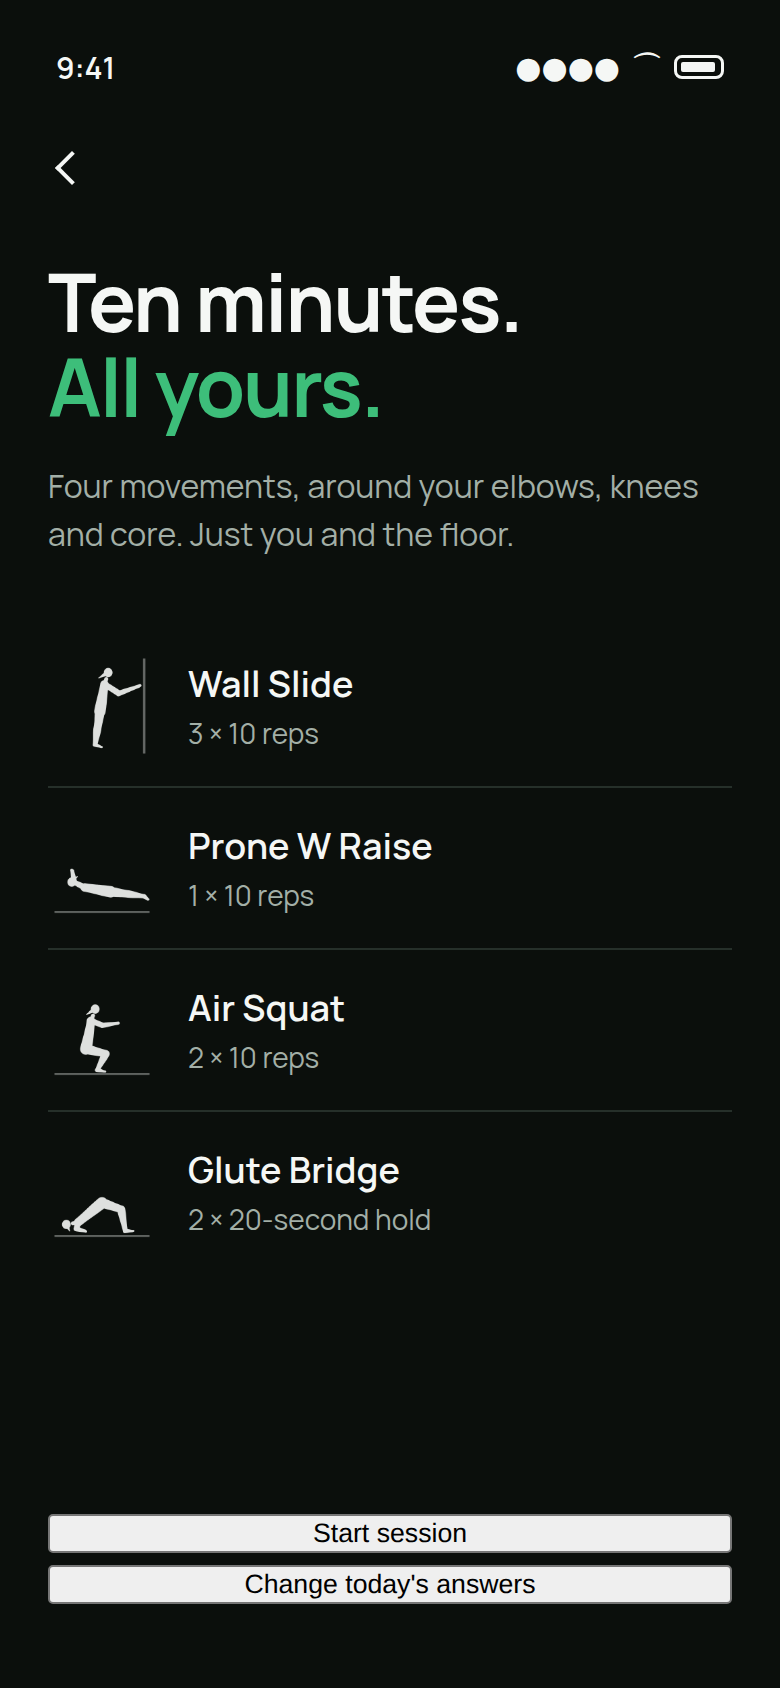
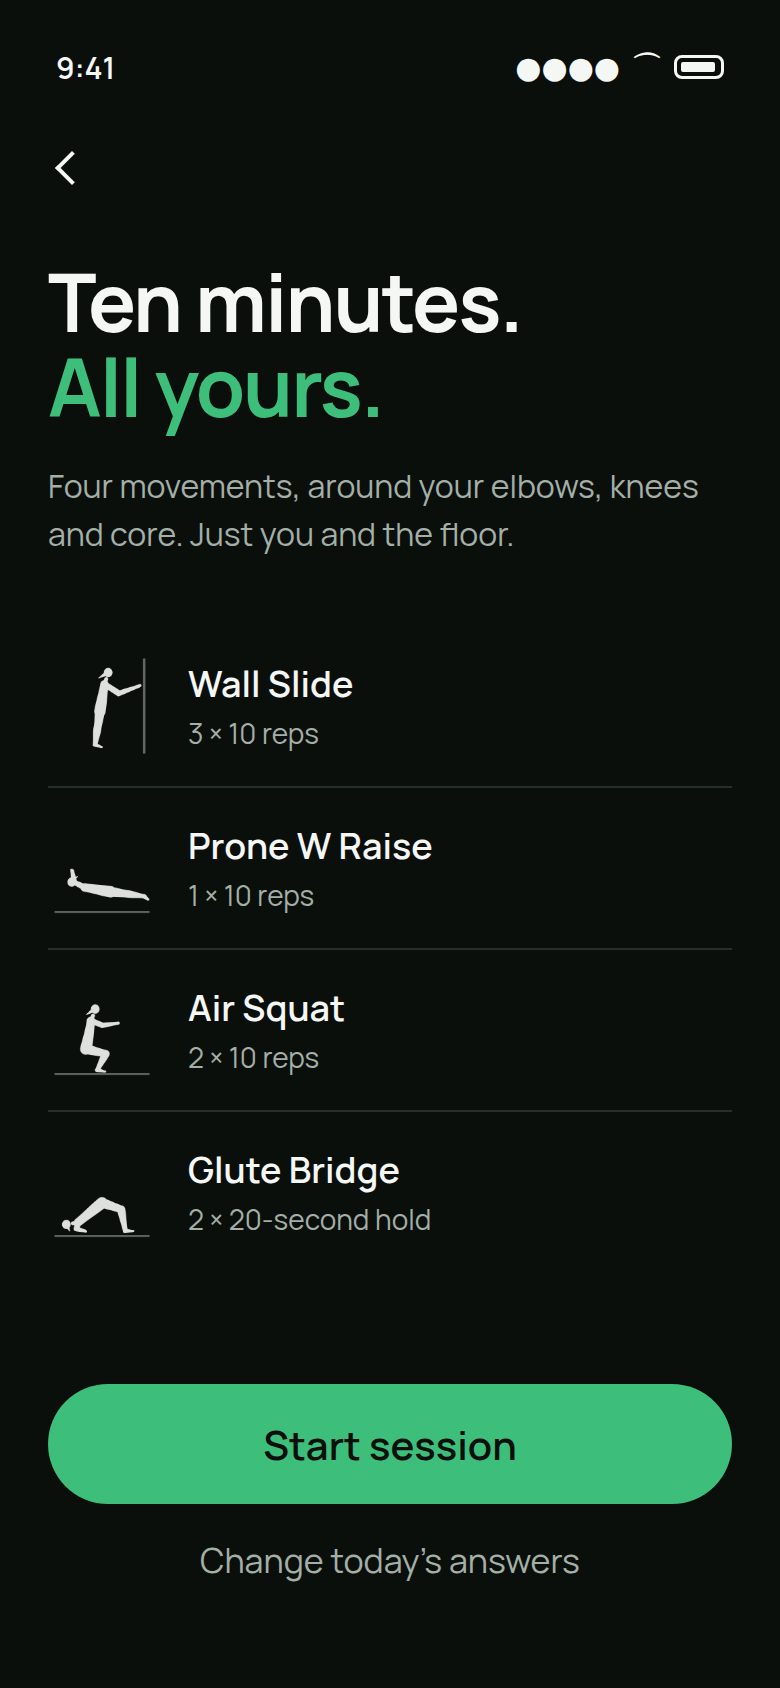
Preview button options: real design-system buttons, the bar, the round start, the compact pill

Changed region(s): [[0.0615, 0.8009, 0.9538, 0.955]]

diff --git a/docs/design/mockups/preview-c2.html b/docs/design/mockups/preview-c2.html
@@ -1,4 +1,4 @@
-<!doctype html><html><head><meta charset="utf-8"><title>preview-b3</title><link rel="stylesheet" href="tokens.css"><link rel="stylesheet" href="_rows.css">
+<!doctype html><html><head><meta charset="utf-8"><title>C2</title><link rel="stylesheet" href="tokens.css"><link rel="stylesheet" href="_rows.css">
 <style>
 /* B — ONE PROMISE, THEN THE PLAN. A short empowering headline instead of
    "Your session is ready", the three facts folded into one quiet line,
@@ -15,11 +15,14 @@
 .blk .n { font-size: 18px; font-weight: 600; }
 .blk .p { color: var(--ink-soft); font-size: 14px; margin-top: 3px; }
 .bottom { padding-bottom: 8px; gap: 6px; }
-/* B3 — QUIET GREEN. The accent at low emphasis: the green sits as a
-   tinted surface with green text, so the loudest thing on the screen is
-   still her session, not the button. */
-.bottom .primary { background: var(--accent-soft); color: var(--accent); border: 1px solid var(--accent); border-radius: 16px; min-height: 58px; font-size: 19px; font-weight: 700; letter-spacing: -.2px; }
-.bottom .quiet { min-height: 48px; font-size: 16px; color: var(--ink-soft); }
+/* C2 — PRESS TO BEGIN. One round button, the shape of starting
+   something. The word sits under it and the secondary is a quiet line
+   below that; nothing is full width, so the screen breathes. */
+.bottom { padding-bottom: 4px; gap: 0; align-items: center; }
+.startwrap { display: flex; flex-direction: column; align-items: center; gap: 14px; }
+.start { width: 108px; height: 108px; border-radius: 999px; background: var(--accent); color: var(--on-accent); display: flex; align-items: center; justify-content: center; font-size: 36px; }
+.startlabel { font-size: 19px; font-weight: 600; letter-spacing: -.2px; }
+.bottom .btn-quiet { min-height: 48px; margin-top: 12px; }
 </style></head><body><div class="phone">
 <div class="statusbar"><span>9:41</span><span class="right"><span>●●●●</span><span>⌒</span><span class="batt"></span></span></div>
 <div class="screen">
@@ -36,7 +39,7 @@
   </div>
   <div style="flex:1"></div>
   <div class="bottom">
-    <button class="primary">Start session</button>
-    <button class="quiet">Change today's answers</button>
+    <div class="startwrap"><div class="start">&#9654;</div><div class="startlabel">Start session</div></div>
+    <div class="btn btn-quiet">Change today’s answers</div>
   </div>
 </div></div></body></html>

diff --git a/docs/design/mockups/preview-c3.html b/docs/design/mockups/preview-c3.html
@@ -1,4 +1,4 @@
-<!doctype html><html><head><meta charset="utf-8"><title>preview-b2</title><link rel="stylesheet" href="tokens.css"><link rel="stylesheet" href="_rows.css">
+<!doctype html><html><head><meta charset="utf-8"><title>C3</title><link rel="stylesheet" href="tokens.css"><link rel="stylesheet" href="_rows.css">
 <style>
 /* B — ONE PROMISE, THEN THE PLAN. A short empowering headline instead of
    "Your session is ready", the three facts folded into one quiet line,
@@ -15,12 +15,11 @@
 .blk .n { font-size: 18px; font-weight: 600; }
 .blk .p { color: var(--ink-soft); font-size: 14px; margin-top: 3px; }
 .bottom { padding-bottom: 8px; gap: 6px; }
-/* B2 — WHITE ACTS, GREEN MEANS PROGRESS. The button stops competing
-   with the green that marks her numbers and skills: white on the dark
-   ground is the highest contrast a press can have, and green goes back
-   to meaning her work. */
-.bottom .primary { background: var(--ink); color: var(--bg); border-radius: 16px; min-height: 58px; font-size: 19px; font-weight: 700; letter-spacing: -.2px; }
-.bottom .quiet { min-height: 48px; font-size: 16px; color: var(--ink-soft); }
+/* C3 — SIZED TO ITS WORDS. Not a full-width slab: a compact pill that
+   reads as one confident tap, centred, with real air around it. */
+.bottom { padding-bottom: 6px; gap: 2px; align-items: center; }
+.bottom .btn-primary { padding: 0 44px; min-height: 62px; }
+.bottom .btn-quiet { min-height: 48px; }
 </style></head><body><div class="phone">
 <div class="statusbar"><span>9:41</span><span class="right"><span>●●●●</span><span>⌒</span><span class="batt"></span></span></div>
 <div class="screen">
@@ -37,7 +36,7 @@
   </div>
   <div style="flex:1"></div>
   <div class="bottom">
-    <button class="primary">Start session</button>
-    <button class="quiet">Change today's answers</button>
+    <div class="btn btn-primary">Start session</div>
+    <div class="btn btn-quiet">Change today’s answers</div>
   </div>
 </div></div></body></html>

diff --git a/docs/design/mockups/preview-c1.html b/docs/design/mockups/preview-c1.html
@@ -1,4 +1,4 @@
-<!doctype html><html><head><meta charset="utf-8"><title>preview-b1</title><link rel="stylesheet" href="tokens.css"><link rel="stylesheet" href="_rows.css">
+<!doctype html><html><head><meta charset="utf-8"><title>C1</title><link rel="stylesheet" href="tokens.css"><link rel="stylesheet" href="_rows.css">
 <style>
 /* B — ONE PROMISE, THEN THE PLAN. A short empowering headline instead of
    "Your session is ready", the three facts folded into one quiet line,
@@ -15,11 +15,12 @@
 .blk .n { font-size: 18px; font-weight: 600; }
 .blk .p { color: var(--ink-soft); font-size: 14px; margin-top: 3px; }
 .bottom { padding-bottom: 8px; gap: 6px; }
-/* B1 — SQUARED. The pill becomes a soft rectangle: less app-generic,
-   more like a card you press. Same green, calmer geometry, and the
-   secondary is plain soft text with no competing outline. */
-.bottom .primary { border-radius: 16px; min-height: 58px; font-size: 19px; font-weight: 700; letter-spacing: -.2px; }
-.bottom .quiet { min-height: 48px; font-size: 16px; color: var(--ink-soft); }
+/* C1 — THE BAR. The action is the floor of the screen: edge to edge, no
+   radius, nothing floating. Unmissable, and the secondary sits above it
+   as plain text so only one thing is a surface. */
+.bottom { padding-bottom: 0; margin: 0 -24px -34px; gap: 0; }
+.bottom .btn-quiet { min-height: 54px; }
+.bottom .btn-primary { border-radius: 0; min-height: 88px; padding-bottom: 26px; }
 </style></head><body><div class="phone">
 <div class="statusbar"><span>9:41</span><span class="right"><span>●●●●</span><span>⌒</span><span class="batt"></span></span></div>
 <div class="screen">
@@ -36,7 +37,7 @@
   </div>
   <div style="flex:1"></div>
   <div class="bottom">
-    <button class="primary">Start session</button>
-    <button class="quiet">Change today's answers</button>
+    <div class="btn btn-quiet">Change today’s answers</div>
+    <div class="btn btn-primary">Start session</div>
   </div>
 </div></div></body></html>

diff --git a/docs/design/mockups/preview-a.html b/docs/design/mockups/preview-a.html
@@ -31,7 +31,7 @@
   </div>
   <div style="flex:1"></div>
   <div class="bottom">
-    <button class="primary">Start session</button>
-    <button class="quiet">Change today's answers</button>
+    <div class="btn btn-primary">Start session</div>
+    <div class="btn btn-quiet">Change today’s answers</div>
   </div>
 </div></div></body></html>

diff --git a/docs/design/mockups/preview-b.html b/docs/design/mockups/preview-b.html
@@ -31,7 +31,7 @@
   </div>
   <div style="flex:1"></div>
   <div class="bottom">
-    <button class="primary">Start session</button>
-    <button class="quiet">Change today's answers</button>
+    <div class="btn btn-primary">Start session</div>
+    <div class="btn btn-quiet">Change today’s answers</div>
   </div>
 </div></div></body></html>
